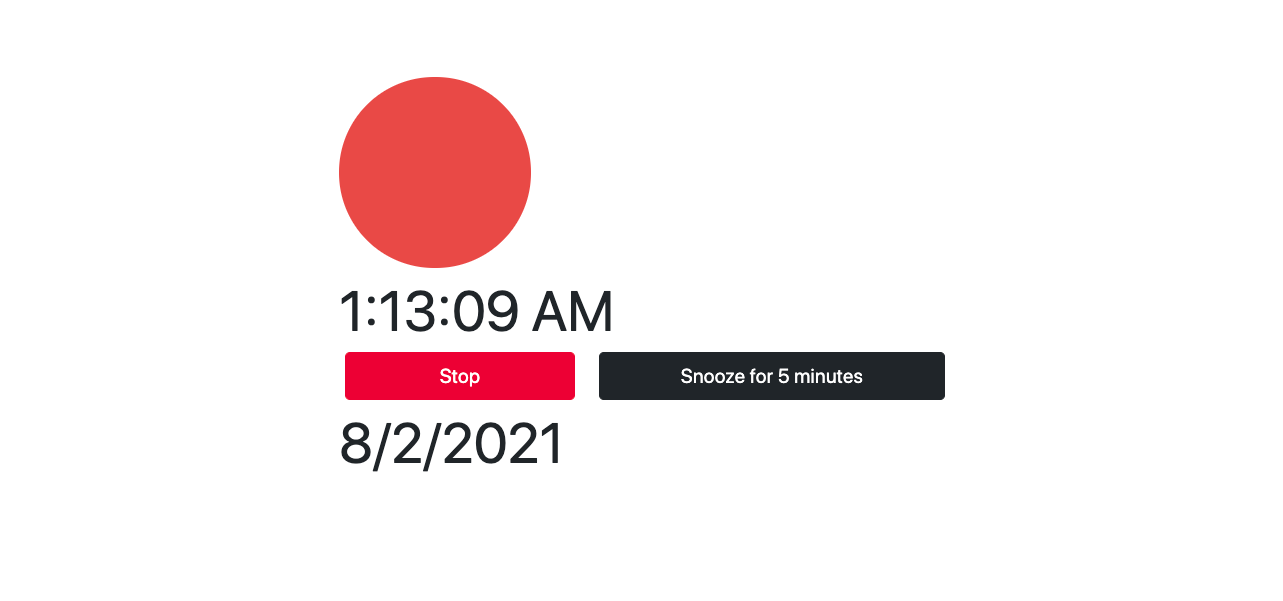
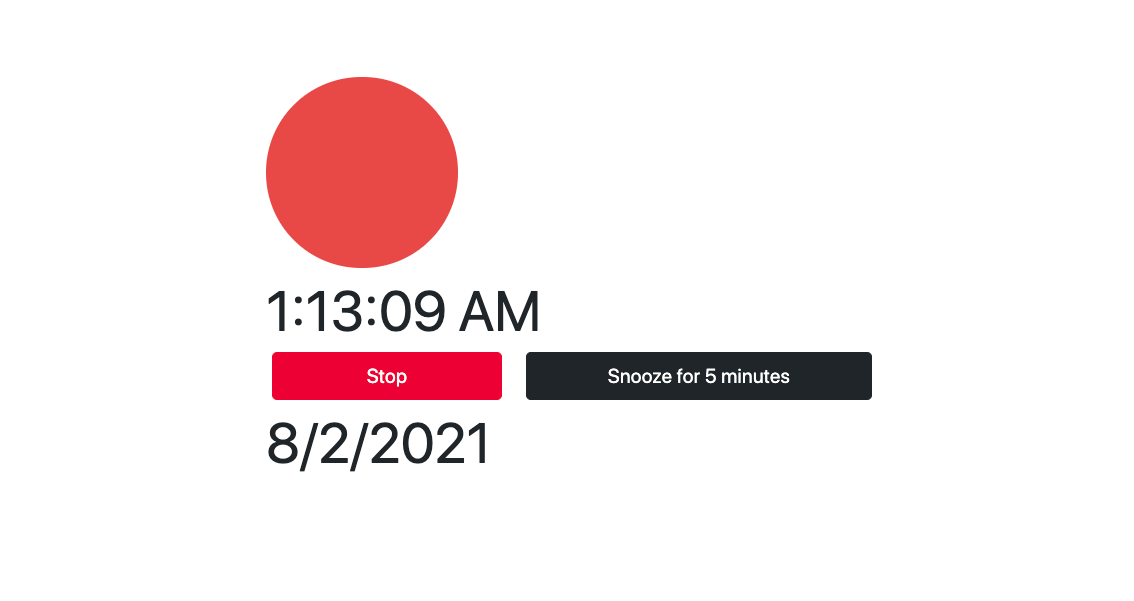
Landing Carousel -used new alarm clock image -added missing altnames

diff --git a/mkv2/templates/mkv2/index.html b/mkv2/templates/mkv2/index.html
@@ -56,7 +56,8 @@
     <div class="col carousel-col"> 
         <h2 class="thin-font fade-in-on-scroll">What I've Been Working On:</h2>
         <div class="gallery js-flickity" data-flickity-options='{ "wrapAround": true }'>
-            <img class="gallery-cell" src="{% static 'mkv2/carousel/flp-report.png' %}" alt="Solidity Scripting" loading=lazy>
+            <img class="gallery-cell" src="{% static 'mkv2/alarmclock.png' %}" alt="ReactJS Alarm Clock" loading=lazy>
+            <img class="gallery-cell" src="{% static 'mkv2/carousel/flp-report.png' %}" alt="Foster Love Project Report Generation" loading=lazy>
             <img class="gallery-cell" src="{% static 'mkv2/carousel/solidity.png' %}" alt="Solidity Scripting" loading=lazy>
             <img class="gallery-cell" src="{% static 'mkv2/carousel/baking-factory.png' %}" alt="Baking Factory" loading=lazy>
             <img class="gallery-cell" src="{% static 'mkv2/carousel/portal.png' %}" alt="FIB Submission Portal" loading=lazy>
